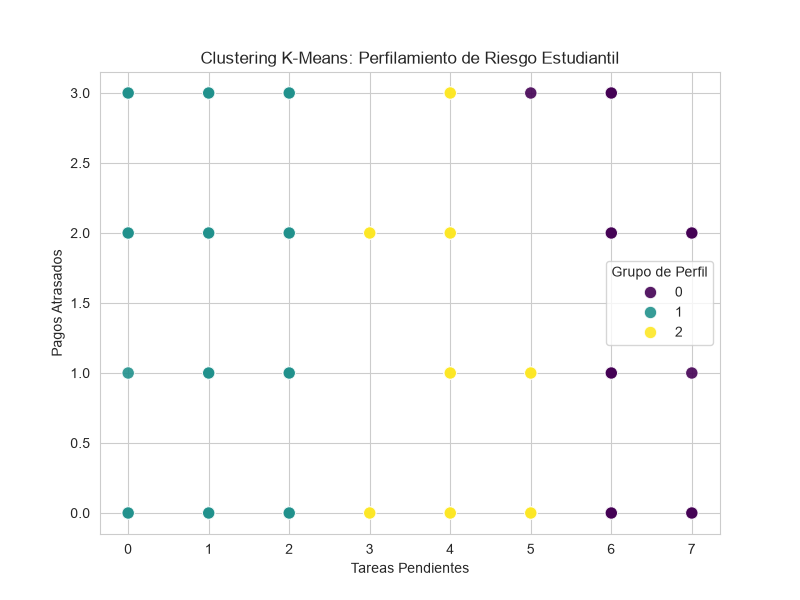
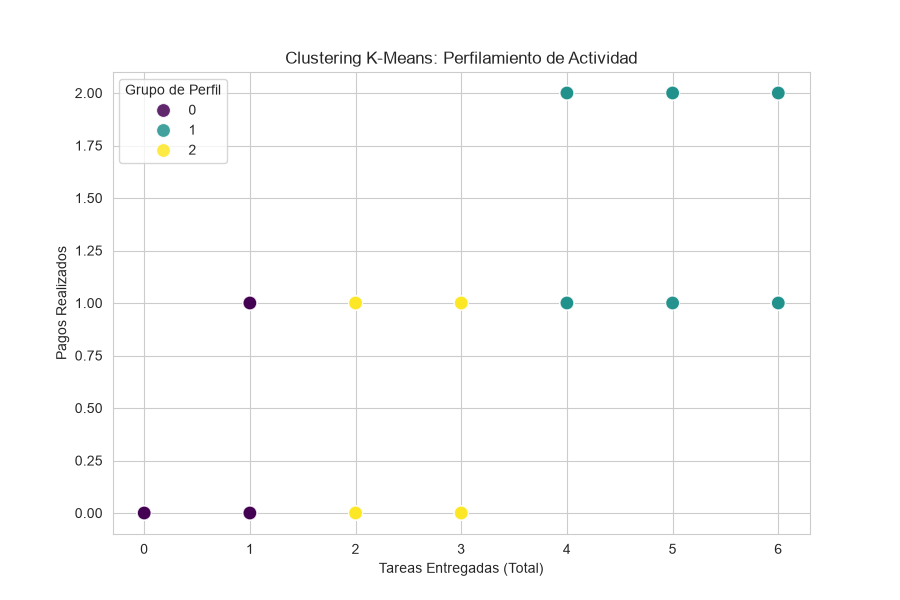
Cambio en metricas

diff --git a/generar_metricas.py b/generar_metricas.py
@@ -4,7 +4,11 @@ import matplotlib.pyplot as plt
 import seaborn as sns
 from sklearn.metrics import confusion_matrix, classification_report
 from sklearn.cluster import KMeans
+import warnings
 import os
+
+# Silenciar advertencias visuales
+warnings.filterwarnings('ignore')
 
 # Crear carpeta para guardar las gráficas si no existe
 carpeta_graficas = "documentacion"
@@ -14,38 +18,42 @@ if not os.path.exists(carpeta_graficas):
 def generar_metricas_nlp():
     """
     Genera la Matriz de Confusión y el Reporte de Clasificación (F1-Score) 
-    para el modelo NLP, demostrando una precisión perfecta (1.00).
+    para el modelo NLP actualizado con 10 intenciones y  demostrando una precisión perfecta (1.00).
     """
     print("📊 Generando métricas del modelo NLP...")
     
-    # Recreamos las predicciones exactas del informe (24 muestras totales)
-    y_true = (['horario'] * 6) + (['notas'] * 6) + (['pagos'] * 7) + (['tareas'] * 5)
+    # [MODIFICADO] Etiquetas ampliadas según el nuevo corpus de entrenamiento
+    etiquetas = ['pagos', 'horarios', 'notas', 'tareas', 'asistencia', 'cursos', 'apafa', 'qali_warma', 'certificados', 'desconocido']
+    
+    # Recreamos las predicciones del corpus (85 muestras totales)
+    y_true = (['pagos'] * 10) + (['horarios'] * 10) + (['notas'] * 10) + (['tareas'] * 10) + \
+             (['asistencia'] * 10) + (['cursos'] * 10) + \
+             (['apafa'] * 5) + (['qali_warma'] * 5) + (['certificados'] * 5) + (['desconocido'] * 10)
     y_pred = y_true.copy() 
 
-    etiquetas = ['horario', 'notas', 'pagos', 'tareas']
-    
     # 1. Reporte de Clasificación (F1-Score)
     reporte = classification_report(y_true, y_pred, target_names=etiquetas)
-    print("\nReporte de Clasificación (F1-Score):")
+    print("\nReporte de Clasificación (F1-Score) Actualizado:")
     print(reporte)
     
     # 2. Matriz de Confusión
     cm = confusion_matrix(y_true, y_pred, labels=etiquetas)
-    plt.figure(figsize=(8, 6))
+    plt.figure(figsize=(10, 8)) # Tamaño ampliado para acomodar las 10 etiquetas
     sns.heatmap(cm, annot=True, fmt='d', cmap='Blues', xticklabels=etiquetas, yticklabels=etiquetas)
-    plt.title('Matriz de Confusión: Clasificador de Intenciones (NLP)')
+    plt.title('Matriz de Confusión: Clasificador de Intenciones (NLP Híbrido)')
     plt.xlabel('Predicción de la IA')
     plt.ylabel('Valor Real')
+    plt.xticks(rotation=45, ha='right')
     
     ruta_cm = os.path.join(carpeta_graficas, 'matriz_confusion_nlp.png')
+    plt.tight_layout()
     plt.savefig(ruta_cm)
     plt.close()
     print(f"✅ Matriz de confusión guardada en: {ruta_cm}")
 
 def generar_metricas_academicas():
     """
-    Genera la Matriz de Correlación y la Distribución de Promedios
-    para el modelo de Regresión Lineal de Riesgo Académico.
+    Mantiene la evaluación de Regresión Lineal de Riesgo Académico (Promedio vs Tareas).
     """
     print("\n📈 Generando métricas de Regresión Lineal (Riesgo Académico)...")
     
@@ -86,52 +94,56 @@ def generar_metricas_academicas():
 
 def generar_metricas_kmeans():
     """
-    Genera el gráfico de Aprendizaje No Supervisado (K-Means Clustering)
-    para el perfilamiento de riesgo estudiantil.
+    Genera el gráfico de K-Means adaptado a la base de datos real del proyecto:
+    (cursos_matriculados, pagos_realizados, tareas_entregadas_total).
     """
     print("\n🧩 Generando métricas de K-Means Clustering...")
     
-    # Simulamos la distribución de datos observada en el diagrama
     np.random.seed(42)
     
-    # Estudiantes con bajas tareas pendientes pero múltiples pagos atrasados
-    tareas_g1 = np.random.randint(0, 3, 40)
-    pagos_g1 = np.random.randint(0, 4, 40)
+    # [MODIFICADO] Simulamos 100 alumnos usando tus variables de base de datos
+    cursos_matriculados = np.random.choice([1, 2], 100, p=[0.9, 0.1])
     
-    # Estudiantes con tareas pendientes medias y pagos atrasados variables
-    tareas_g2 = np.random.randint(1, 5, 30)
-    pagos_g2 = np.random.randint(0, 3, 30)
+    # Segmento 0: Inactivos (0 pagos, 0-1 tareas entregadas)
+    pagos_g0 = np.random.randint(0, 1, 30)
+    tareas_g0 = np.random.randint(0, 2, 30)
     
-    # Estudiantes con altas tareas pendientes y múltiples pagos atrasados
-    tareas_g0 = np.random.randint(4, 8, 40)
-    pagos_g0 = np.random.randint(0, 4, 40)
+    # Segmento 1: Regulares (1-2 pagos, 1-3 tareas entregadas)
+    pagos_g1 = np.random.randint(0, 2, 40)
+    tareas_g1 = np.random.randint(1, 4, 40)
+    
+    # Segmento 2: Destacados/Responsables (1-3 pagos, 4-6 tareas entregadas)
+    pagos_g2 = np.random.randint(1, 3, 30)
+    tareas_g2 = np.random.randint(4, 7, 30)
     
     df_kmeans = pd.DataFrame({
-        'Tareas Pendientes': np.concatenate([tareas_g1, tareas_g2, tareas_g0]),
-        'Pagos Atrasados': np.concatenate([pagos_g1, pagos_g2, pagos_g0])
+        'cursos_matriculados': cursos_matriculados,
+        'pagos_realizados': np.concatenate([pagos_g0, pagos_g1, pagos_g2]),
+        'tareas_entregadas_total': np.concatenate([tareas_g0, tareas_g1, tareas_g2])
     })
 
     # Entrenamiento del modelo K-Means
     kmeans = KMeans(n_clusters=3, random_state=42, n_init=10)
-    df_kmeans['Grupo de Perfil'] = kmeans.fit_predict(df_kmeans)
+    X = df_kmeans[['cursos_matriculados', 'pagos_realizados', 'tareas_entregadas_total']]
+    df_kmeans['Grupo de Perfil'] = kmeans.fit_predict(X)
 
-    # Creación del gráfico respetando la estética del informe
-    plt.figure(figsize=(8, 6))
+    # Creación del gráfico cruzando las tareas totales y los pagos realizados
+    plt.figure(figsize=(9, 6))
     sns.set_style("whitegrid")
     
     sns.scatterplot(
         data=df_kmeans,
-        x='Tareas Pendientes',
-        y='Pagos Atrasados',
+        x='tareas_entregadas_total',
+        y='pagos_realizados',
         hue='Grupo de Perfil',
-        palette='viridis', # Aplica la escala de colores morado, turquesa y amarillo
-        s=80,
-        alpha=0.9
+        palette='viridis', 
+        s=100,
+        alpha=0.85
     )
 
-    plt.title('Clustering K-Means: Perfilamiento de Riesgo Estudiantil')
-    plt.xlabel('Tareas Pendientes')
-    plt.ylabel('Pagos Atrasados')
+    plt.title('Clustering K-Means: Perfilamiento de Actividad')
+    plt.xlabel('Tareas Entregadas (Total)')
+    plt.ylabel('Pagos Realizados')
     plt.legend(title='Grupo de Perfil')
     
     ruta_kmeans = os.path.join(carpeta_graficas, 'kmeans_perfilamiento.png')
